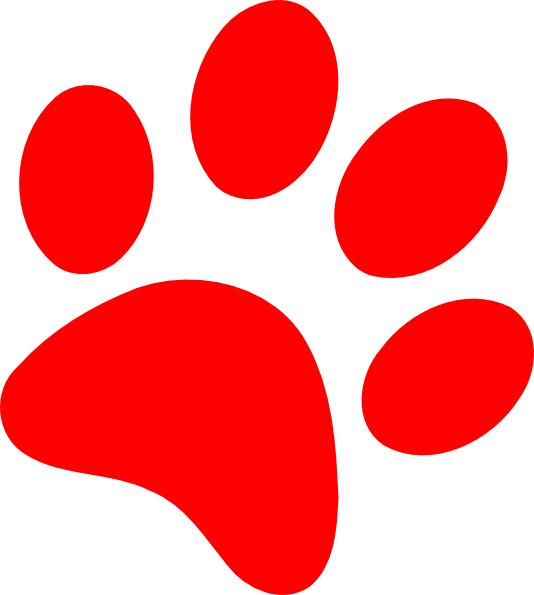
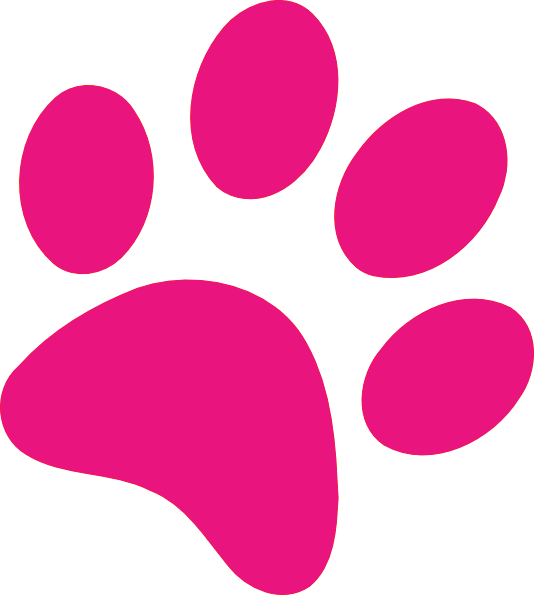
looooots of styling from last night—and I added a .push to the pet services functionality

diff --git a/server/public/views/templates/home.html b/server/public/views/templates/home.html
@@ -1,8 +1,11 @@
 <div class="container container-fluid card" ng-if="pc.petsService.currentPet.data.description">
+  <span class="toaster" ng-show="showMe">
+    <p>
+      <a ng-click="showMe = false" href="">X</a> Added a pet to your saved pets!</p>
+  </span>
   <div class="row">
-    <!-- <p>Added {{pc.petsService.currentPet.data.name}} to your saved pets!</p> -->
     <div class="mx-auto text-center" ng-click="PetService.showMore = !PetService.showMore;">
-      <h2 id="name" class="lead">{{pc.petsService.currentPet.data.name}}</h2>
+      <h2 id="name">{{pc.petsService.currentPet.data.name}}</h2>
       <img id="mainPhoto" ng-if="pc.petsService.currentPet.photos[0].x" ng-src={{pc.petsService.currentPet.photos[0].x}} />
       <img id="mainPhoto" ng-if="!pc.petsService.currentPet.photos[0].x" src="assets/images/cat-silhouette.png" />
     </div>
@@ -10,49 +13,58 @@
   <div id="pawPrints" class="row">
     <div class="mx-auto" id="redPaw">
       <div class="col">
-        <img ng-click="pc.hidePet(pc.petsService.currentPet.data.id)" alt="pass" class="img-fluid flip-horizontal" src="assets/images/red-paw.png" />
+        <img ng-click="pc.hidePet(pc.petsService.currentPet.data.id); showMe = false" alt="pass" class="img-fluid flip-horizontal"
+          src="assets/images/red-paw.png" />
       </div>
     </div>
     <div class="mx-auto" id="greenPaw">
       <div class="col">
-        <img ng-click="pc.lovePet(pc.petsService.currentPet.data.id)" alt="save" class="img-fluid flip-horizontal" src="assets/images/green-paw.png" />
+        <img ng-click="pc.lovePet(pc.petsService.currentPet.data.id, pc.petsService.currentPet.data.name); showMe = true" alt="save"
+          class="img-fluid flip-horizontal" src="assets/images/green-paw.png" />
       </div>
     </div>
   </div>
-  <div id="description" class="hide" ng-show="PetService.showMore">
-    <h3>Description</h3>
-    <p ng-if="pc.petsService.currentPet.data.description">
-      {{pc.petsService.currentPet.data.description}}
-    </p>
-    <p ng-if="!pc.petsService.currentPet.data.description">
-      Sorry! I only have my adorable photo right now. If you want to learn more about me, all you have to do is
-      <a href="#contact">contact</a> the shelter I come from and ask!
-    </p>
-    <div>
-      <div id="otherInfo">
-        <h3>Other information</h3>
-        <span ng-if="pc.petsService.currentPet.data.breeds">
-          <h4>Breed(s):</h4>
-          <ul ng-repeat="breed in pc.petsService.currentPet.data.breeds">
-            <li>{{breed}}</li>
-          </ul>
-        </span>
-        <h4>Age:</h4>
-        {{pc.petsService.currentPet.data.age}}
-        <h4>Sex:</h4>
-        {{pc.petsService.currentPet.data.sex}}
-        <h4>Size:</h4>
-        {{pc.petsService.currentPet.data.size}}
+  <div>
+    <div id="description" class="hide information" ng-show="PetService.showMore">
+      <h3>Description</h3>
+      <p ng-if="pc.petsService.currentPet.data.description">
+        {{pc.petsService.currentPet.data.description}}
+      </p>
+      <p ng-if="!pc.petsService.currentPet.data.description">
+        Sorry! I only have my adorable photo right now. If you want to learn more about me, all you have to do is
+        <a href="#contact">contact</a> the shelter I come from and ask!
+      </p>
+      <div>
+        <div id="otherInfo" class="information">
+          <h4>Other information</h4>
+          <span ng-if="pc.petsService.currentPet.data.breeds">
+            <div class="row">
+              <h5 class="col-4">Breed(s):</h5>
+              <span class="col" ng-repeat="breed in pc.petsService.currentPet.data.breeds">
+                {{breed}}
+              </span>
+            </div>
+          </span>
+          <div class="row">
+            <h5>Age:  </h5> {{pc.petsService.currentPet.data.age}}
+          </div>
+          <div class="row">
+            <h5>Sex:  </h5> {{pc.petsService.currentPet.data.sex}}
+          </div>
+          <div class="row">
+            <h5>Size:  </h5> {{pc.petsService.currentPet.data.size}}
+          </div>
+        </div>
       </div>
-    </div>
 
-    <a href="#contact" class="btn btn-primary">Contact Shelter</a>
+      <a href="#contact" class="btn btn-primary btn-info col-6">Contact Shelter</a>
+    </div>
   </div>
 
   <!-- {{pc.petsService.currentPet.data}} -->
   <!-- mailto:{{pc.petsService.currentPet.data.contact.email}} -->
 </div>
 <div class="container container-fluid row" ng-if="!pc.petsService.currentPet.data.description">
-    <i class="fa fa-spinner fa-pulse fa-3x fa-fw mx-auto col"></i>
-    <span class="sr-only">Loading...</span>
+  <i class="fa fa-spinner fa-pulse fa-3x fa-fw mx-auto col"></i>
+  <span class="sr-only">Loading...</span>
 </div>

diff --git a/server/public/views/templates/user.html b/server/public/views/templates/user.html
@@ -1,45 +1,42 @@
-<!-- <div ng-include="'views/partials/nav.html'"></div> -->
-<div class="container">
-    <h1 id="welcome" class="lead">Welcome!</h1>
-    <button class="btn btn-default" ng-click="uc.userService.logout()">Log Out</button>
-    <div class="row text-center" style="display:flex; flex-wrap: wrap;">
+<div class="container container-fluid card">
+    <h2>User Settings</h2>
+    <div class="row">
         <div class="col-12" style="margin: 0 auto;">
             <div class="thumbnail">
-                <img style="width:50%;" src="https://images.unsplash.com/photo-1506004896010-edbb40609353?auto=format&fit=crop&w=634&q=80">
-                <div class="caption-full">
-                    <p>David Johnson</p>
-                    <p>Cat lover, owner of 2 cats</p>
-                    <p>Minneapolis, MN</p>
-                    <p>I love cats!! I love cats!! I love cats!! I love cats!! I love cats!! </p>
-                </div>
+                <i class="fas fa-edit"></i>
+                <img src="https://images.unsplash.com/photo-1506004896010-edbb40609353?auto=format&fit=crop&w=634&q=80">
+                <form>
+                    <i class="fas fa-edit" onclick=""></i><label>Name: </label> David Johnson</span>
+                    <input class="invisible" type="text" placeholder="Enter Name"><br>
+                    <i class="fas fa-edit"></i><label>About:</label>
+                    Cat lover, owner of 2 cats
+                    <textarea class="invisible"></textarea>
+                </form>
             </div>
             <hr>
             <p></p>
 
             <div class="container user-container">
                 <form>
-                    <h4>Change Settings</h4>
+                    <h3>Change Settings</h3>
+                    <label>Username</label>
+                    <input type="text" placeholder="Enter New Username" value="">
+                    <br>
+                    <label>Password</label>
+                    <input type="password" placeholder="Enter New Password" value="">
+                    <br>
+                    <label class="radio">
+                        <input type="radio" name="optionsRadios" id="optionsRadios1" value="option1" checked> Cats
+                        <input type="radio" name="optionsRadios" id="optionsRadios2" value="option2"> Dogs
+                    </label>
+                    <br>
+                    <label>Zip Code</label>
+                    <input type="number" placeholder="Enter New Zip Code" value="">
+                    <br>
+                    <button type="cancel" class="btn">Cancel</button>
+                    <button type="submit" class="btn btn-default">Save</button>
                 </form>
-                <label>Username</label>
-                <input type="text" placeholder="Enter New Username" value="">
-                <br>
-                <label>Password</label>
-                <input type="password" placeholder="Enter New Password" value="">
-                <br>
-                <label class="radio">
-                    <input type="radio" name="optionsRadios" id="optionsRadios1" value="option1" checked> Dogs
-                    <input type="radio" name="optionsRadios" id="optionsRadios2" value="option2"> Cats
-                </label>
-                <br>
-                <label>Zip Code</label>
-                <input type="number" placeholder="Enter New Zip Code" value="">
-                <br>
-                <button type="cancel" class="btn">Cancel</button>
-                <button type="submit" class="btn">Submit</button>
             </div>
-<<<<<<< Updated upstream
-=======
-            <button class="btn btn-default btn-info" ng-click="uc.userService.logout()">Log Out</button>
->>>>>>> Stashed changes
+            <button class="btn btn-default btn-info col-6" ng-click="uc.userService.logout()">Log Out</button>
         </div>
     </div>

diff --git a/server/public/styles/style.css b/server/public/styles/style.css
@@ -17,10 +17,16 @@
   color: #F5EFED;
 }
 
-.icon-hover:hover{
-    transition: opacity 1s, transform 1s;
+.fa-cog.icon-hover:hover{
+    transition: opacity 0.5s, transform 0.5s;
     transform: rotate(-30deg) ;
 }
+
+.pet-fav.icon-hover:hover{
+  transition: color 1s ease;
+  color: rgb(233, 20, 126);
+}
+
 #redPaw img{
   max-height: 100px;
   padding: 5px;
@@ -56,6 +62,15 @@ main{
 h1{
   font-family: "Sniglet Regular", sans-serif;
   font-weight: bolder;
+}
+
+h2{
+  font-family: "Sniglet Regular", sans-serif;
+  font-weight: bold;
+}
+
+h3, h4{
+  font-family: "Sniglet Regular", sans-serif;
 }
 
 
@@ -166,8 +181,29 @@ li a:hover {
   background-color: rgba(255, 255, 255, .6);
   padding: 15px;
 }
-#mainPhoto{
-  margin-top: 30px;
+
+
+/* HOME */
+
+.toaster{
+  margin: 5px;
+  padding-left: 10px; 
+  background-color: rgba(76, 173, 79, .1);
 }
 
+.toaster a {
+  font-weight: bold;
+  color: black;
+  text-decoration: none;
+}
 
+#mainPhoto{
+  margin: 10px;
+}
+
+.information{
+  display: block;
+  margin: 20px;
+  padding: 15px;
+  background-color: rgba(255, 255, 255, .6);
+}

diff --git a/server/public/scripts/services/pets.service.js b/server/public/scripts/services/pets.service.js
@@ -51,14 +51,15 @@ myApp.service('PetsService', ['$http', function ($http) {
         console.log('show more?', self.showMore)
     }
 
-
-    self.saveThisPet = function (pet, love) {
-        // console.log('saved pet is', pet);
+    self.saveThisPet = function (pet, name, love) {
+        console.log('saved pet is', name);
         //console.log('status is ', love)
         var petToSave = {
             petId: pet,
+            name: name,
             love: love
         }
+        self.userPetList.push(petToSave);
         $http.post('/pets', petToSave).then(function (response) {
             // console.log('response is', response)
         }).then(function () {

diff --git a/server/public/scripts/controllers/pets.controller.js b/server/public/scripts/controllers/pets.controller.js
@@ -16,8 +16,8 @@ myApp.controller('PetsController', function (UserService, PetsService) {
         self.petsService.currentPet.photos = Object.values(self.petsService.pets[self.petsService.count].media.photos);
     };
 
-    self.lovePet = function (petId) {
-        PetsService.saveThisPet(petId, true);
+    self.lovePet = function (petId, name) {
+        PetsService.saveThisPet(petId, name, true);
         //saves pet info when like is clicked
        // console.log('save button clicked');
       //  console.log('pet loved is', petId);

diff --git a/server/public/views/partials/header.html b/server/public/views/partials/header.html
@@ -2,8 +2,8 @@
     <div class="container">
         <a class="header-link" href="#home"><h1><i class="fa fa-paw"></i> pawsibilities.</h1></a>
         <span class="pull-right">
-                <a href="#futureFriends"><i class="fas pet-fav fa fa-paw fa-2x"></i></a>
             <a href="#user"><i class="fas fa-cog fa-2x icon-hover"></i></a>
+            <a href="#futureFriends"><i class="fas pet-fav fa fa-paw fa-2x icon-hover"></i></a>
         </span>
     </div>
 </div>

diff --git a/server/public/views/templates/login.html b/server/public/views/templates/login.html
@@ -21,7 +21,7 @@
                 <input class="btn btn-block btn-default btn-info" type="submit" name="submit" value="Log In" />
             </div>
             <div class="text-center">
-                <a href="#register">Register</a>
+                <a class="btn btn-block btn-default" href="#register">Register</a>
             </div>
       </form>
       <h2 class="lead alert alert-danger" role="alert" ng-if="lc.message != ''">{{lc.message}}</h2>

diff --git a/server/public/views/templates/futurefriends.html b/server/public/views/templates/futurefriends.html
@@ -1,4 +1,4 @@
-<div class="container-fluid">
+<div class="container container-fluid card">
     <div class="row">
         <div class="col-md-2"></div>
         <div class="col-md-8">
